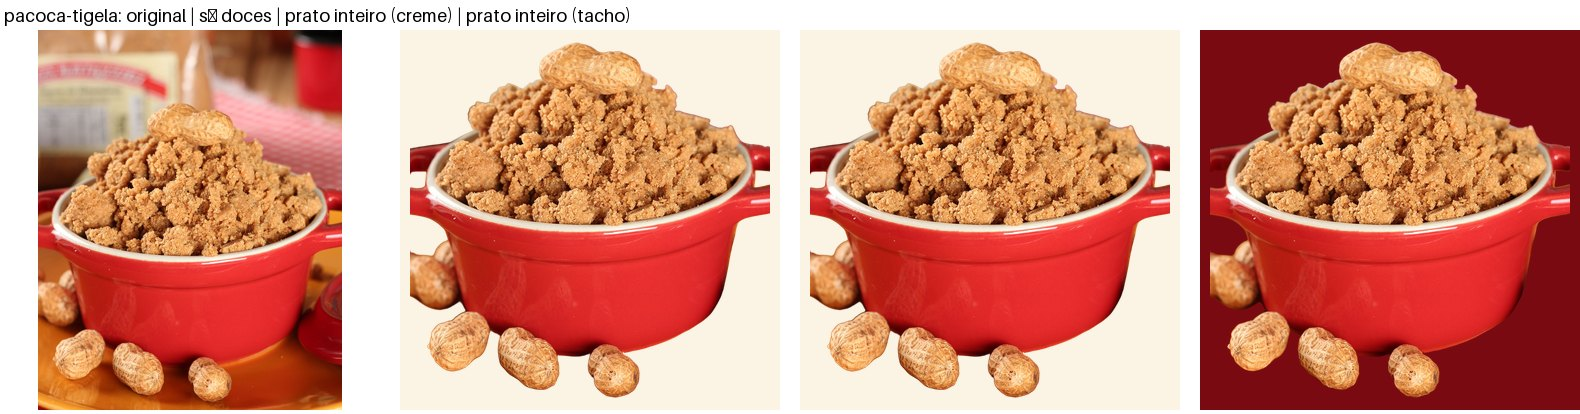
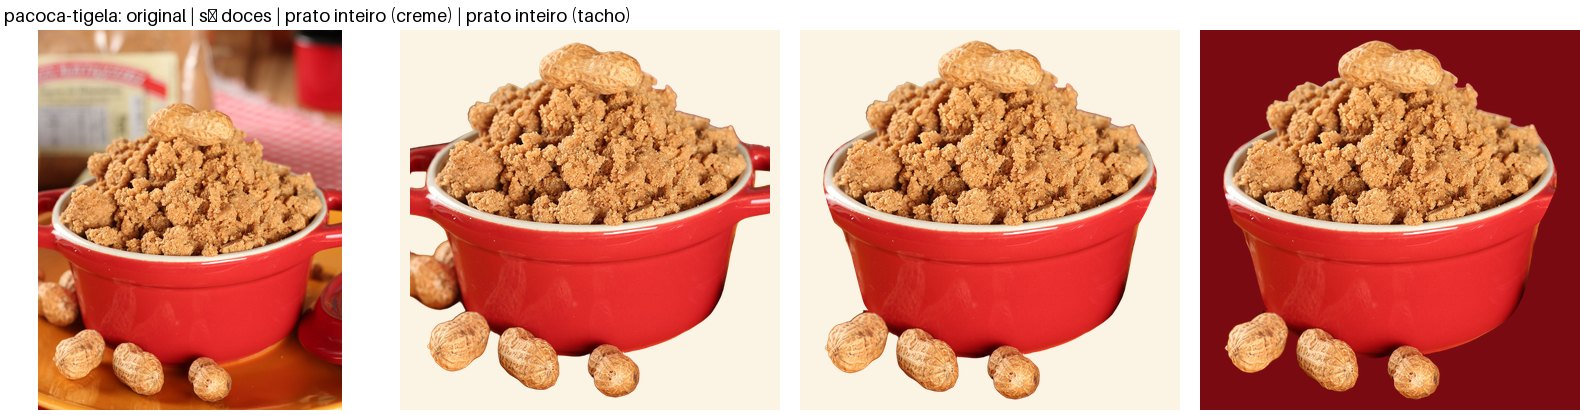
Recortes: bandejinhas no mesmo padrão e paçoca sem os tocos das alças
- Cajuzinho, batata roxa, abóbora, doce de leite e figo passam a usar
  fotos novas na bandejinha branca, recortadas como banana, batata e sortida.
- Paçoca: a parede da tigela substitui os tocos das alças cortadas pela
  borda da foto, e saem os amendoins cortados ao meio (card e hero).
- Hero sem a linha "Abre o WhatsApp com a mensagem pronta."
- Sai a opção "sangra", que só o cajuzinho antigo usava.
- recortar-fotos.py aceita nomes para refazer só algumas fotos.

Changed region(s): [[0.4962, 0.087, 1.0, 0.9855], [0.7443, 0.5797, 0.9304, 0.9565], [0.6823, 0.6667, 0.7133, 0.8116]]

diff --git a/src/content.config.ts b/src/content.config.ts
@@ -16,8 +16,6 @@ const doces = defineCollection({
       alt: z.string(),
       // Tom pastel do card, derivado da cor do doce. Texto sempre em marrom café.
       fundo: z.string().regex(/^#[0-9A-Fa-f]{6}$/),
-      // Recorte com lado reto (prato cortado no enquadramento): sai pelas bordas do card.
-      sangra: z.boolean().default(false),
     }),
 });
 

diff --git a/scripts/recortar-fotos.py b/scripts/recortar-fotos.py
@@ -1,7 +1,8 @@
 """Recorta o fundo das fotos dos doces e exporta WebP com transparência.
 
 Uso (a partir da pasta pessoal/, com o venv do rembg):
-  .venv-rembg/Scripts/python -I doces-mantiqueira/scripts/recortar-fotos.py
+  .venv-rembg/Scripts/python -I doces-mantiqueira/scripts/recortar-fotos.py [nomes...]
+Sem nomes, refaz todas as fotos; com nomes, só essas.
 
 Duas máscaras por foto:
 - BiRefNet (rembg) acha os doces, com borda fina no açúcar cristal;
@@ -16,7 +17,10 @@ from pathlib import Path
 import numpy as np
 from PIL import Image, ImageDraw, ImageFilter, ImageFont
 from rembg import new_session
+import sys
+
 from scipy import ndimage
+from scipy.interpolate import PchipInterpolator
 from skimage.morphology import convex_hull_image
 
 RAIZ = Path(__file__).resolve().parents[1]
@@ -41,10 +45,41 @@ PRATOS = {
     "figo-prato": None,
     "sortida": (0.08, 0.17, 0.92, 0.79),
     "sortida-prato": None,  # o SAM pega só parte do prato; a versão só com os doces fica melhor
+    # Bandejinhas brancas, no mesmo padrão da banana, da batata e da sortida:
+    # só a bandeja sai no recorte, sem os pratos coloridos de baixo.
+    "cajuzinho-bandejinha": (0.15, 0.43, 0.83, 0.86),
+    "figo-bandejinha": (0.26, 0.318, 0.735, 0.745),
+    "abobora-bandejinha": (0.145, 0.205, 0.855, 0.805),
+    "batata-roxa-bandejinha": (0.16, 0.30, 0.85, 0.80),
+    "doce-de-leite-bandejinha": (0.11, 0.39, 0.90, 0.86),
+}
+
+# Nestas, só com a caixa o SAM pega os doces e deixa a bandeja de fora.
+# Pontos na borda branca da bandeja (x, y em frações da foto) resolvem.
+PONTOS_PRATO = {
+    "figo-bandejinha": [(0.5, 0.715), (0.29, 0.55), (0.705, 0.55), (0.5, 0.5)],
+    "abobora-bandejinha": [(0.5, 0.775), (0.175, 0.55), (0.825, 0.55), (0.5, 0.5)],
 }
 
 # Recipientes com alça não são convexos: o fecho puxaria o prato de baixo.
 NAO_CONVEXOS = {"pacoca-tigela"}
+
+# A tigela da paçoca encosta nas duas bordas da foto, que cortam as alças pela
+# metade: sobravam dois tocos vermelhos nas laterais. Entre o topo da borda e a
+# base das alças, o contorno passa a seguir a parede da tigela. À esquerda, a
+# parede segue até embaixo para tirar os amendoins que a borda da foto também
+# cortou ao meio; os amendoins inteiros da frente ficam. Pontos (y, x) em
+# pixels do recorte de referência (base), convertidos para a caixa do recorte.
+ALCAS = {
+    "pacoca-tigela": {
+        "base": (900, 890),
+        "esquerda": [(230, 135), (244, 112), (260, 85), (280, 63), (300, 50), (330, 40), (356, 39),
+                     (400, 48), (430, 58), (452, 67), (468, 85), (495, 94), (525, 106), (560, 115),
+                     (600, 125), (630, 133), (650, 139), (668, 150)],
+        "direita": [(230, 815), (244, 824), (260, 835), (280, 846), (300, 853), (330, 862), (356, 862),
+                    (400, 846), (430, 832), (452, 820), (468, 815)],
+    },
+}
 
 LADO_MAX = 900
 CREME = (251, 244, 228)
@@ -65,11 +100,18 @@ def mascara_doces(sessao, foto: Image.Image, nome: str) -> np.ndarray:
 def mascara_prato(sessao, foto: Image.Image, caixa, nome: str) -> np.ndarray:
     w, h = foto.size
     x1, y1, x2, y2 = caixa[0] * w, caixa[1] * h, caixa[2] * w, caixa[3] * h
-    prompt = [
-        {"type": "rectangle", "data": [x1, y1, x2, y2], "label": 1},
-        {"type": "point", "data": [(x1 + x2) / 2, (y1 + y2) / 2], "label": 1},
-    ]
+    if nome in PONTOS_PRATO:
+        pontos = [[x * w, y * h] for x, y in PONTOS_PRATO[nome]]
+    else:
+        pontos = [[(x1 + x2) / 2, (y1 + y2) / 2]]
+    prompt = [{"type": "rectangle", "data": [x1, y1, x2, y2], "label": 1}]
+    prompt += [{"type": "point", "data": ponto, "label": 1} for ponto in pontos]
     return em_cache(f"{nome}-sam", lambda: sessao().predict(foto, sam_prompt=prompt)[0])
+
+
+def pixels_claros(foto: Image.Image) -> np.ndarray:
+    hsv = np.asarray(foto.convert("HSV"), dtype=np.float32) / 255
+    return (hsv[..., 1] < 0.28) & (hsv[..., 2] > 0.5)
 
 
 def maior_objeto(binaria: np.ndarray) -> np.ndarray:
@@ -80,7 +122,8 @@ def maior_objeto(binaria: np.ndarray) -> np.ndarray:
     return rotulos == (np.argmax(tamanhos) + 1)
 
 
-def unir(foto: Image.Image, doces: np.ndarray, prato: np.ndarray, caixa, convexo: bool = True) -> np.ndarray:
+def unir(foto: Image.Image, doces: np.ndarray, prato: np.ndarray, caixa, convexo: bool = True,
+         todos_os_pedacos: bool = False) -> np.ndarray:
     """Prato + doces num objeto só, sem furos nem fragmentos soltos, com borda suave.
 
     Prato e bandeja são convexos: o fecho convexo da máscara do SAM tapa as
@@ -91,13 +134,14 @@ def unir(foto: Image.Image, doces: np.ndarray, prato: np.ndarray, caixa, convexo
     h, w = doces.shape
     dentro = np.zeros_like(doces, dtype=bool)
     dentro[int(caixa[1] * h):int(np.ceil(caixa[3] * h)), int(caixa[0] * w):int(np.ceil(caixa[2] * w))] = True
-    sam_bin = maior_objeto((prato > 0.5) & dentro)
+    sam_bin = (prato > 0.5) & dentro
+    if not todos_os_pedacos:
+        sam_bin = maior_objeto(sam_bin)
     if convexo:
         fecho = convex_hull_image(sam_bin) & dentro
     else:
         fecho = ndimage.binary_fill_holes(ndimage.binary_closing(sam_bin, iterations=4)) & dentro
-    hsv = np.asarray(foto.convert("HSV"), dtype=np.float32) / 255
-    claro = (hsv[..., 1] < 0.28) & (hsv[..., 2] > 0.5)
+    claro = pixels_claros(foto)
     if claro[sam_bin].mean() > 0.5:
         prato_bin = ndimage.binary_opening(claro & fecho, iterations=2)
         prato_bin = maior_objeto(ndimage.binary_closing(prato_bin, iterations=4) & fecho)
@@ -113,7 +157,33 @@ def unir(foto: Image.Image, doces: np.ndarray, prato: np.ndarray, caixa, convexo
     return np.maximum(np.where(solido, suave, 0), doces)
 
 
+def aparar_alcas(alfa: np.ndarray, contorno: dict) -> np.ndarray:
+    """Apaga o que passa da parede da tigela nas linhas das alças, com borda suave."""
+    ys, xs = np.where(alfa > 8 / 255)
+    x0, y0 = xs.min(), ys.min()
+    bw, bh = contorno["base"]
+    sx, sy = (xs.max() + 1 - x0) / bw, (ys.max() + 1 - y0) / bh
+    alfa = alfa.copy()
+    coluna = np.arange(alfa.shape[1], dtype=np.float32)
+    # Cada lado vale só nas linhas que os seus pontos cobrem.
+    for lado, sinal in (("esquerda", 1), ("direita", -1)):
+        py = np.array([y0 + y * sy for y, _ in contorno[lado]])
+        px = np.array([x0 + x * sx for _, x in contorno[lado]])
+        parede = PchipInterpolator(py, px)
+        for y in range(int(np.ceil(py.min())), int(py.max()) + 1):
+            alfa[y] *= np.clip(sinal * (coluna - parede(y)) + 0.5, 0, 1)
+    # O corte deixa lascas soltas dos amendoins de fora: some tudo que ficou separado e pequeno.
+    rotulos, n = ndimage.label(alfa > 0.05)
+    if n > 1:
+        tamanhos = ndimage.sum(np.ones_like(alfa), rotulos, range(1, n + 1))
+        lascas = np.isin(rotulos, [i + 1 for i, t in enumerate(tamanhos) if t < 0.002 * alfa.size])
+        alfa[ndimage.binary_dilation(lascas, iterations=2)] = 0
+    return alfa
+
+
 def exportar(foto: Image.Image, alfa: np.ndarray, nome: str) -> Image.Image:
+    if nome in ALCAS:
+        alfa = aparar_alcas(alfa, ALCAS[nome])
     rgba = foto.convert("RGBA")
     rgba.putalpha(Image.fromarray((np.clip(alfa, 0, 1) * 255).astype(np.uint8)))
     caixa = rgba.getchannel("A").point(lambda a: 255 if a > 8 else 0).getbbox()
@@ -143,13 +213,18 @@ def main() -> None:
 
     T = 380
     linhas = []
+    escolhidas = sys.argv[1:]  # nomes opcionais: refaz só essas fotos
     for nome, caixa in PRATOS.items():
+        if escolhidas and nome not in escolhidas:
+            continue
         foto = Image.open(ORIGEM / f"{nome}.jpg").convert("RGB")
         doces = mascara_doces(birefnet, foto, nome)
         so_doces = exportar(foto, doces, f"{nome}-doces")
         quadros = [foto, so_doces]
         if caixa:
-            prato = exportar(foto, unir(foto, doces, mascara_prato(sam, foto, caixa, nome), caixa, nome not in NAO_CONVEXOS), nome)
+            mascara = mascara_prato(sam, foto, caixa, nome)
+            # Com os pontos na borda, o SAM devolve a bandeja em pedaços: vale o fecho de todos.
+            prato = exportar(foto, unir(foto, doces, mascara, caixa, nome not in NAO_CONVEXOS, nome in PONTOS_PRATO), nome)
             quadros += [prato, prato]
         linha = Image.new("RGB", (T * 4 + 60, T + 34), (255, 255, 255))
         for i, q in enumerate(quadros):
@@ -169,7 +244,7 @@ def main() -> None:
     geral = Image.new("RGB", (w, h * len(linhas)), (255, 255, 255))
     for i, linha in enumerate(linhas):
         geral.paste(linha, (0, i * h))
-    geral.save(PRANCHA / "_prancha-recortes.jpg", quality=80)
+    geral.save(PRANCHA / ("_prancha-parcial.jpg" if escolhidas else "_prancha-recortes.jpg"), quality=80)
 
 
 if __name__ == "__main__":

diff --git a/DESIGN.md b/DESIGN.md
@@ -210,7 +210,7 @@ Paleta quente de cozinha e serra. O vermelho manda, o creme acolhe e o mel e o v
 - **Title** (600, clamp 1.75–2.25rem): o nome do doce nos cards. **Title featured** (clamp 2.25–3.5rem) é o nome do doce em destaque, e **Title small** (clamp 1.5–2rem) é o "Você sabia?". Os argumentos da revenda seguem o mesmo peso.
 - **Lead** (400, clamp 1.25–1.875rem, 1.3, opsz 36): os textos de apoio em serifa (subtítulo do hero, chamada final) e os links do cabeçalho (400, 1.125rem).
 - **Body** (400, 1.0625rem, 1.6): todo texto corrido, com linhas de 34 a 58ch. **Body large** (1.125rem) é o texto da história e das informações de "Onde estamos".
-- **Meta** (400, 1rem, 1.5): legendas, rótulos dos selos, a dica sob o botão do hero, a linha do número do WhatsApp e os dados do rodapé. É o menor tamanho de texto do site.
+- **Meta** (400, 1rem, 1.5): legendas, rótulos dos selos, a linha do número do WhatsApp e os dados do rodapé. É o menor tamanho de texto do site.
 - **Label** (600, 1.0625rem, 1.2): botões. O selo girando usa DM Sans 700 de 10,5px, em caixa alta, com espaçamento de 0,14em.
 
 ### Named Rules
